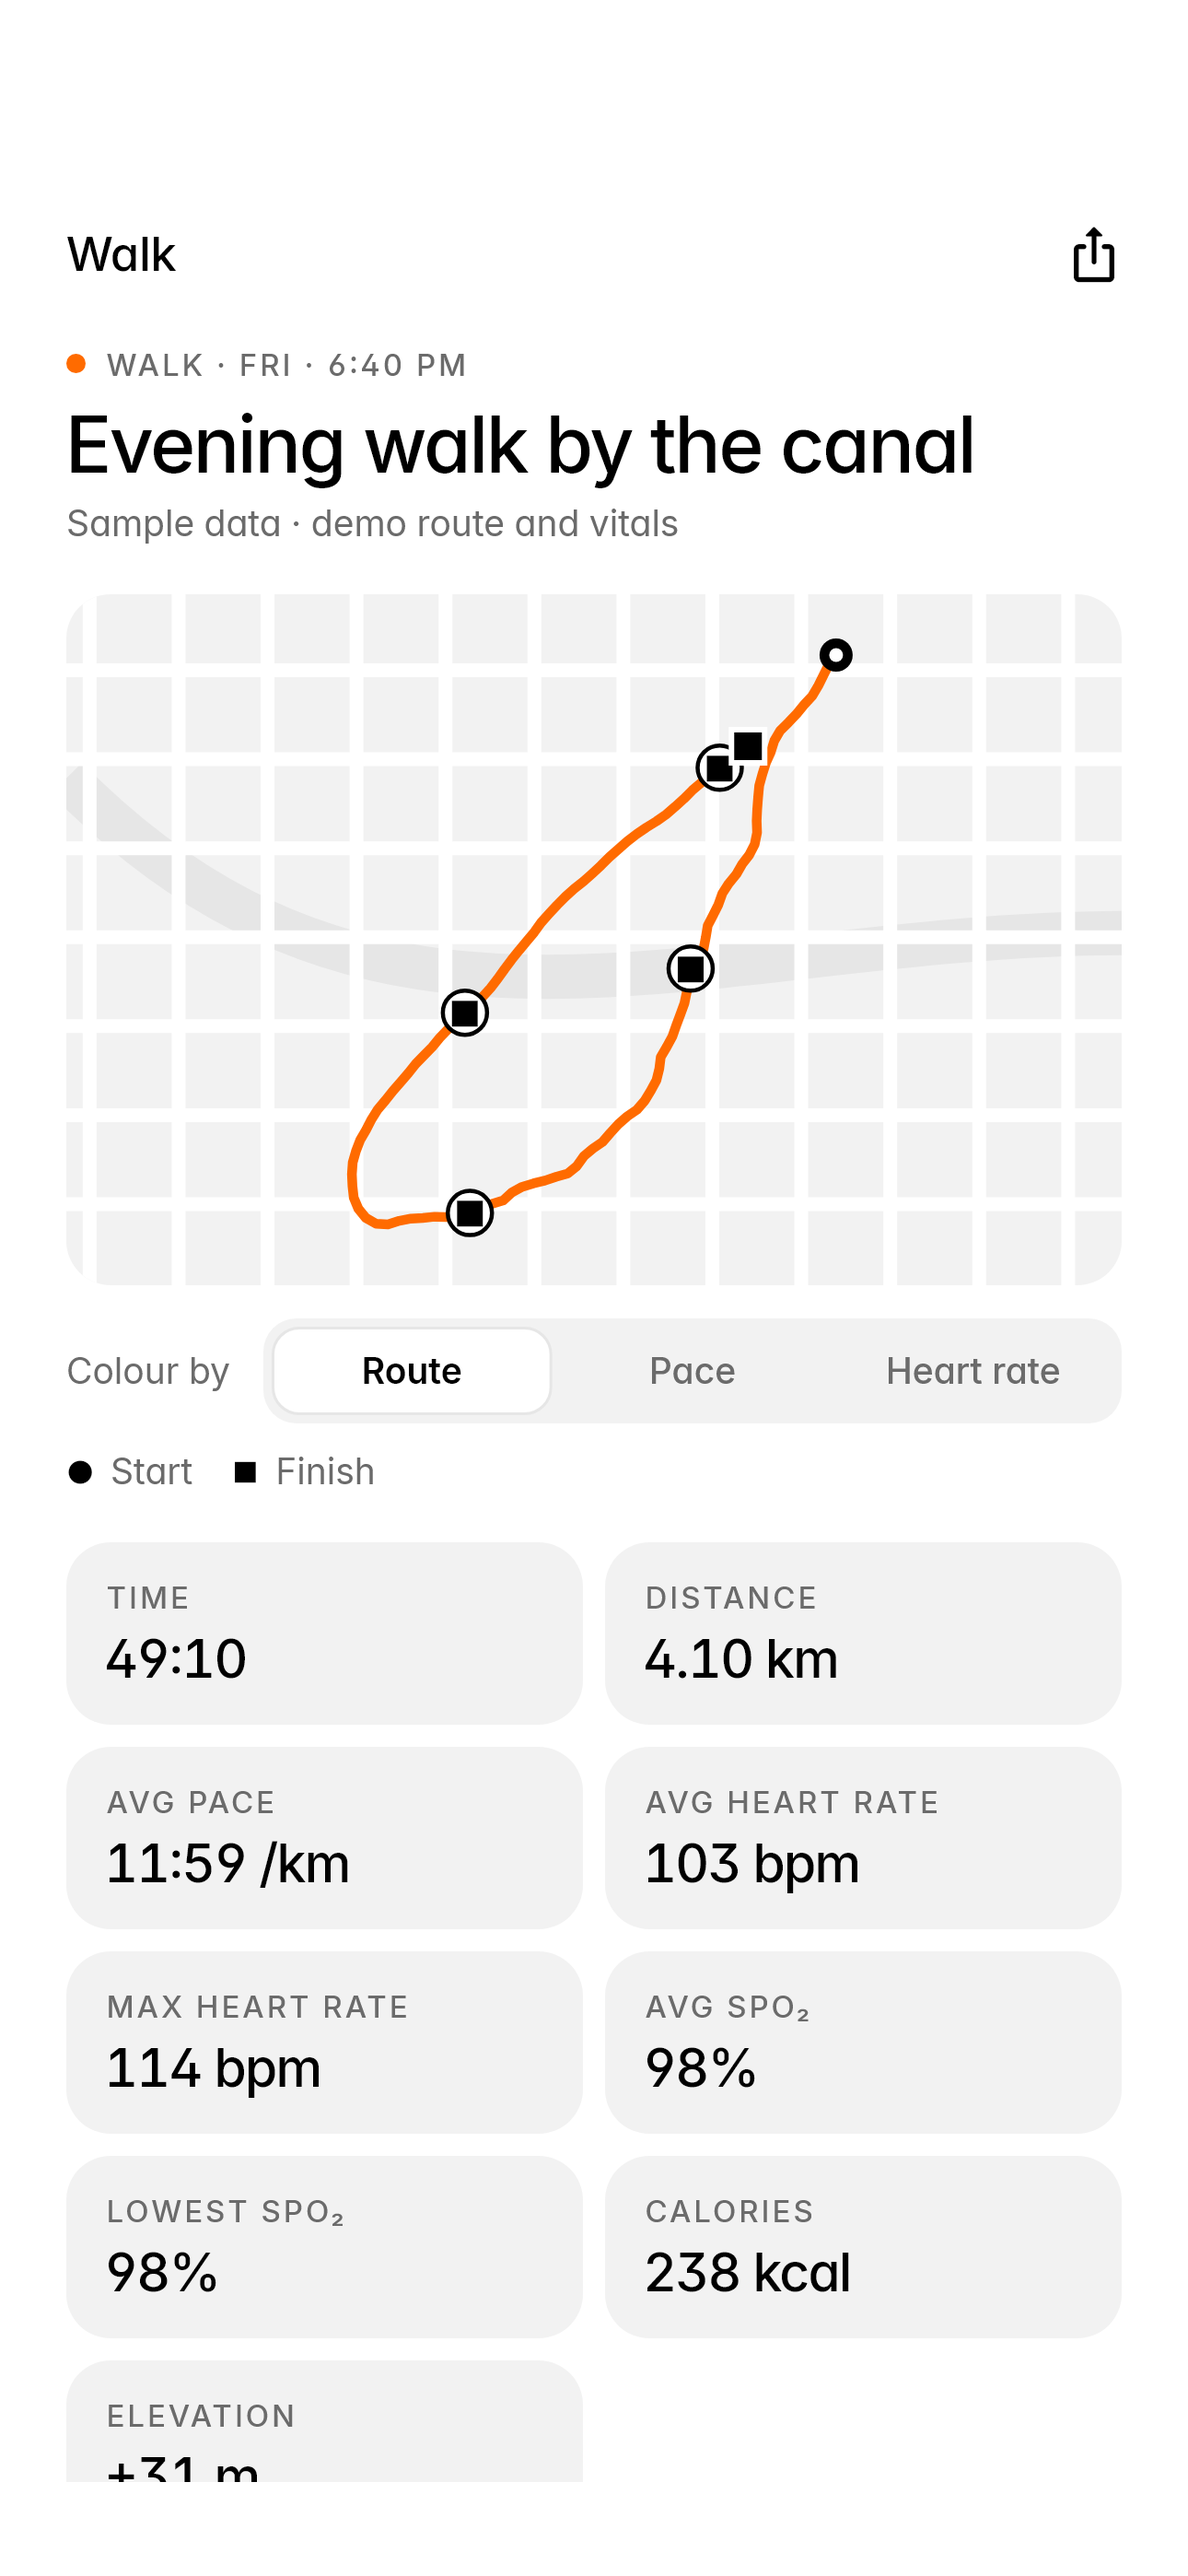
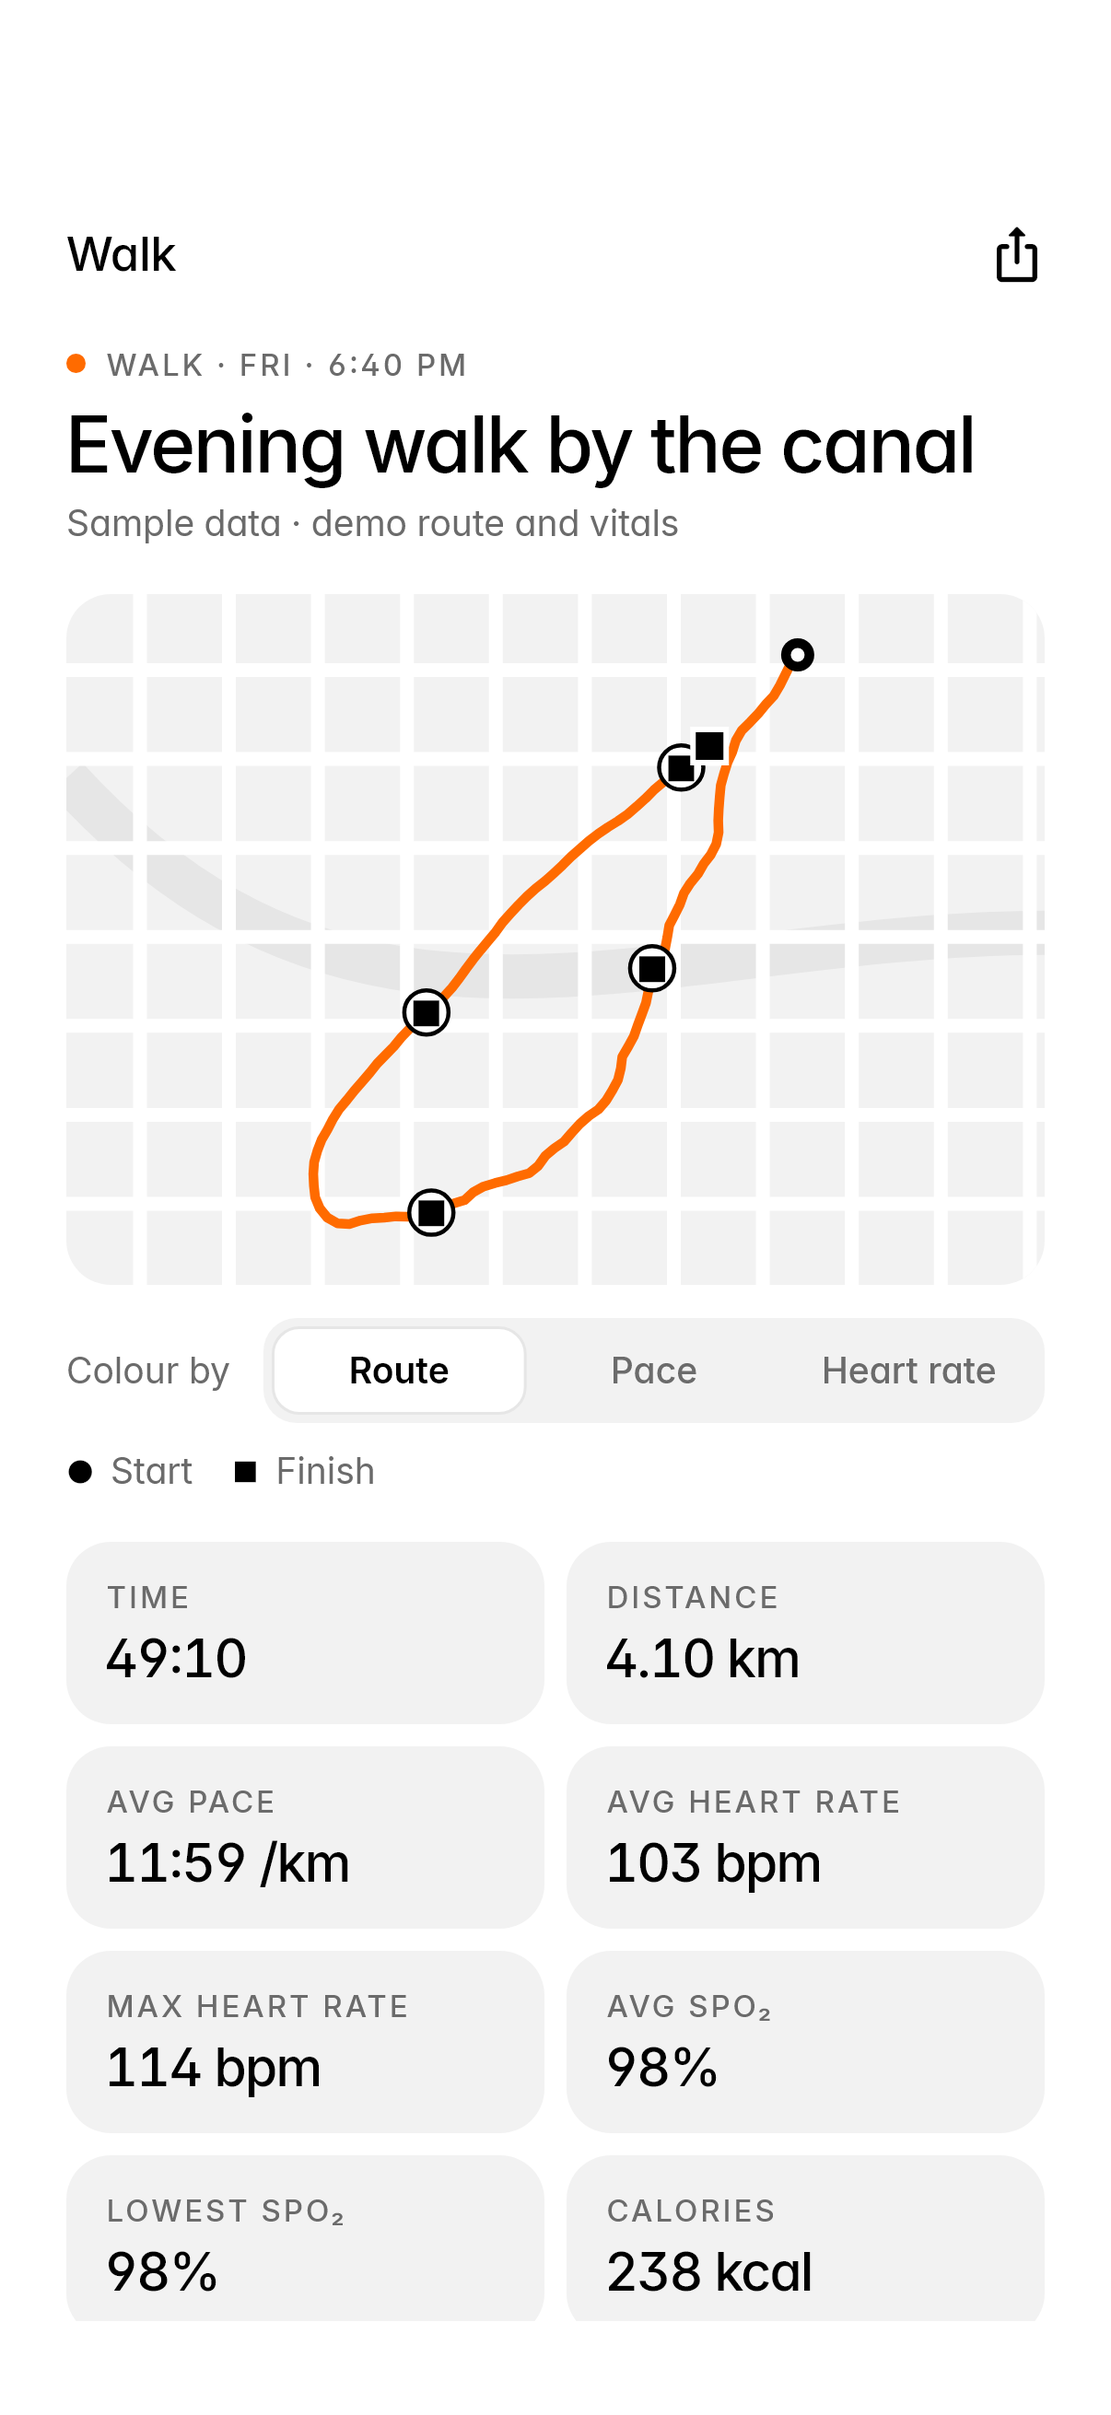
Screenshots at 1206x2622, the size App Store Connect now asks for

diff --git a/screenshots/capture_test.dart b/screenshots/capture_test.dart
@@ -1,4 +1,4 @@
-// App Store screenshots (iPhone 6.9", 1290x2796) rendered from the real screens
+// App Store screenshots (iPhone 6.3", 1206x2622) rendered from the real screens
 // against the live API, logged in as the demo account.
 //
 //   flutter test screenshots/capture_test.dart
@@ -59,8 +59,8 @@ void main() {
   });
 
   testWidgets('store screenshots', (tester) async {
-    // 430 x 932 points at 3x = 1290 x 2796, with iPhone safe areas.
-    tester.view.physicalSize = const Size(1290, 2796);
+    // 402 x 874 points at 3x = 1206 x 2622 (the size App Store Connect asks for), with iPhone safe areas.
+    tester.view.physicalSize = const Size(1206, 2622);
     tester.view.devicePixelRatio = 3;
     tester.view.padding = const FakeViewPadding(top: 62 * 3, bottom: 34 * 3);
     tester.view.viewPadding = const FakeViewPadding(top: 62 * 3, bottom: 34 * 3);
